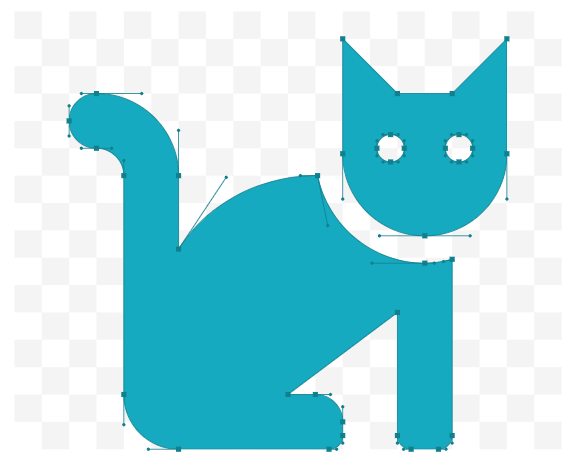
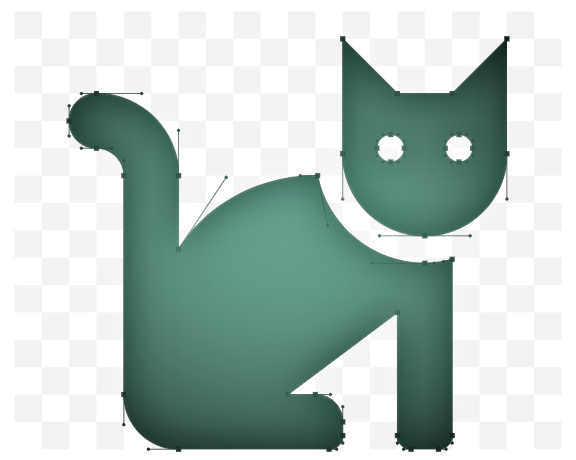
Site updated: 2020-10-08 09:32:36

diff --git a/2020/10/07/hello-world/index.html b/2020/10/07/hello-world/index.html
@@ -41,7 +41,7 @@
             <div class="brand-logo">
                 <a href="/" class="waves-effect waves-light">
                     
-                    <img src="/medias/faco.png" class="logo-img" alt="LOGO">
+                    <img src="/medias/miao.png" class="logo-img" alt="LOGO">
                     
                     <span class="logo-span">Ice Blog</span>
                 </a>
@@ -140,7 +140,7 @@
 
     <div class="mobile-head bg-color">
         
-        <img src="/medias/faco.png" class="logo-img circle responsive-img">
+        <img src="/medias/miao.png" class="logo-img circle responsive-img">
         
         <div class="logo-name">Ice Blog</div>
         <div class="logo-desc">

diff --git a/404.html b/404.html
@@ -41,7 +41,7 @@
             <div class="brand-logo">
                 <a href="/" class="waves-effect waves-light">
                     
-                    <img src="/medias/faco.png" class="logo-img" alt="LOGO">
+                    <img src="/medias/miao.png" class="logo-img" alt="LOGO">
                     
                     <span class="logo-span">Ice Blog</span>
                 </a>
@@ -140,7 +140,7 @@
 
     <div class="mobile-head bg-color">
         
-        <img src="/medias/faco.png" class="logo-img circle responsive-img">
+        <img src="/medias/miao.png" class="logo-img circle responsive-img">
         
         <div class="logo-name">Ice Blog</div>
         <div class="logo-desc">

diff --git a/about/index.html b/about/index.html
@@ -41,7 +41,7 @@
             <div class="brand-logo">
                 <a href="/" class="waves-effect waves-light">
                     
-                    <img src="/medias/faco.png" class="logo-img" alt="LOGO">
+                    <img src="/medias/miao.png" class="logo-img" alt="LOGO">
                     
                     <span class="logo-span">Ice Blog</span>
                 </a>
@@ -140,7 +140,7 @@
 
     <div class="mobile-head bg-color">
         
-        <img src="/medias/faco.png" class="logo-img circle responsive-img">
+        <img src="/medias/miao.png" class="logo-img circle responsive-img">
         
         <div class="logo-name">Ice Blog</div>
         <div class="logo-desc">

diff --git a/archives/2020/10/index.html b/archives/2020/10/index.html
@@ -41,7 +41,7 @@
             <div class="brand-logo">
                 <a href="/" class="waves-effect waves-light">
                     
-                    <img src="/medias/faco.png" class="logo-img" alt="LOGO">
+                    <img src="/medias/miao.png" class="logo-img" alt="LOGO">
                     
                     <span class="logo-span">Ice Blog</span>
                 </a>
@@ -140,7 +140,7 @@
 
     <div class="mobile-head bg-color">
         
-        <img src="/medias/faco.png" class="logo-img circle responsive-img">
+        <img src="/medias/miao.png" class="logo-img circle responsive-img">
         
         <div class="logo-name">Ice Blog</div>
         <div class="logo-desc">

diff --git a/archives/2020/index.html b/archives/2020/index.html
@@ -41,7 +41,7 @@
             <div class="brand-logo">
                 <a href="/" class="waves-effect waves-light">
                     
-                    <img src="/medias/faco.png" class="logo-img" alt="LOGO">
+                    <img src="/medias/miao.png" class="logo-img" alt="LOGO">
                     
                     <span class="logo-span">Ice Blog</span>
                 </a>
@@ -140,7 +140,7 @@
 
     <div class="mobile-head bg-color">
         
-        <img src="/medias/faco.png" class="logo-img circle responsive-img">
+        <img src="/medias/miao.png" class="logo-img circle responsive-img">
         
         <div class="logo-name">Ice Blog</div>
         <div class="logo-desc">

diff --git a/archives/index.html b/archives/index.html
@@ -41,7 +41,7 @@
             <div class="brand-logo">
                 <a href="/" class="waves-effect waves-light">
                     
-                    <img src="/medias/faco.png" class="logo-img" alt="LOGO">
+                    <img src="/medias/miao.png" class="logo-img" alt="LOGO">
                     
                     <span class="logo-span">Ice Blog</span>
                 </a>
@@ -140,7 +140,7 @@
 
     <div class="mobile-head bg-color">
         
-        <img src="/medias/faco.png" class="logo-img circle responsive-img">
+        <img src="/medias/miao.png" class="logo-img circle responsive-img">
         
         <div class="logo-name">Ice Blog</div>
         <div class="logo-desc">

diff --git a/categories/index.html b/categories/index.html
@@ -41,7 +41,7 @@
             <div class="brand-logo">
                 <a href="/" class="waves-effect waves-light">
                     
-                    <img src="/medias/faco.png" class="logo-img" alt="LOGO">
+                    <img src="/medias/miao.png" class="logo-img" alt="LOGO">
                     
                     <span class="logo-span">Ice Blog</span>
                 </a>
@@ -140,7 +140,7 @@
 
     <div class="mobile-head bg-color">
         
-        <img src="/medias/faco.png" class="logo-img circle responsive-img">
+        <img src="/medias/miao.png" class="logo-img circle responsive-img">
         
         <div class="logo-name">Ice Blog</div>
         <div class="logo-desc">

diff --git a/contact/index.html b/contact/index.html
@@ -41,7 +41,7 @@
             <div class="brand-logo">
                 <a href="/" class="waves-effect waves-light">
                     
-                    <img src="/medias/faco.png" class="logo-img" alt="LOGO">
+                    <img src="/medias/miao.png" class="logo-img" alt="LOGO">
                     
                     <span class="logo-span">Ice Blog</span>
                 </a>
@@ -140,7 +140,7 @@
 
     <div class="mobile-head bg-color">
         
-        <img src="/medias/faco.png" class="logo-img circle responsive-img">
+        <img src="/medias/miao.png" class="logo-img circle responsive-img">
         
         <div class="logo-name">Ice Blog</div>
         <div class="logo-desc">

diff --git a/friends/index.html b/friends/index.html
@@ -41,7 +41,7 @@
             <div class="brand-logo">
                 <a href="/" class="waves-effect waves-light">
                     
-                    <img src="/medias/faco.png" class="logo-img" alt="LOGO">
+                    <img src="/medias/miao.png" class="logo-img" alt="LOGO">
                     
                     <span class="logo-span">Ice Blog</span>
                 </a>
@@ -140,7 +140,7 @@
 
     <div class="mobile-head bg-color">
         
-        <img src="/medias/faco.png" class="logo-img circle responsive-img">
+        <img src="/medias/miao.png" class="logo-img circle responsive-img">
         
         <div class="logo-name">Ice Blog</div>
         <div class="logo-desc">

diff --git a/index.html b/index.html
@@ -41,7 +41,7 @@
             <div class="brand-logo">
                 <a href="/" class="waves-effect waves-light">
                     
-                    <img src="/medias/faco.png" class="logo-img" alt="LOGO">
+                    <img src="/medias/miao.png" class="logo-img" alt="LOGO">
                     
                     <span class="logo-span">Ice Blog</span>
                 </a>
@@ -140,7 +140,7 @@
 
     <div class="mobile-head bg-color">
         
-        <img src="/medias/faco.png" class="logo-img circle responsive-img">
+        <img src="/medias/miao.png" class="logo-img circle responsive-img">
         
         <div class="logo-name">Ice Blog</div>
         <div class="logo-desc">

diff --git a/tags/index.html b/tags/index.html
@@ -41,7 +41,7 @@
             <div class="brand-logo">
                 <a href="/" class="waves-effect waves-light">
                     
-                    <img src="/medias/faco.png" class="logo-img" alt="LOGO">
+                    <img src="/medias/miao.png" class="logo-img" alt="LOGO">
                     
                     <span class="logo-span">Ice Blog</span>
                 </a>
@@ -140,7 +140,7 @@
 
     <div class="mobile-head bg-color">
         
-        <img src="/medias/faco.png" class="logo-img circle responsive-img">
+        <img src="/medias/miao.png" class="logo-img circle responsive-img">
         
         <div class="logo-name">Ice Blog</div>
         <div class="logo-desc">
